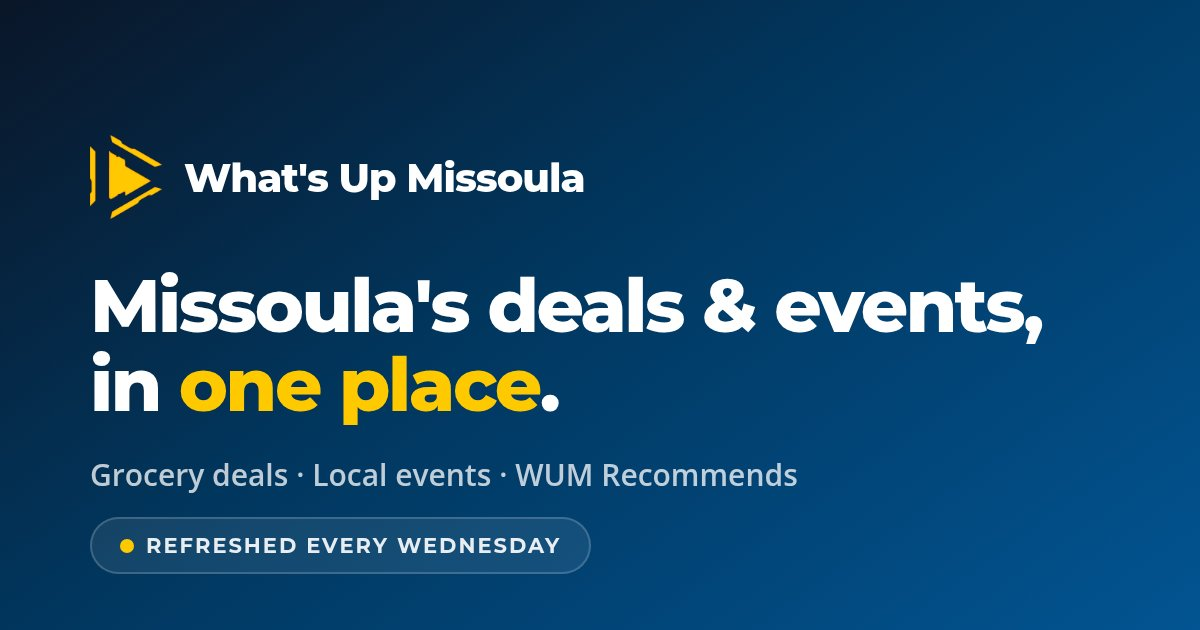
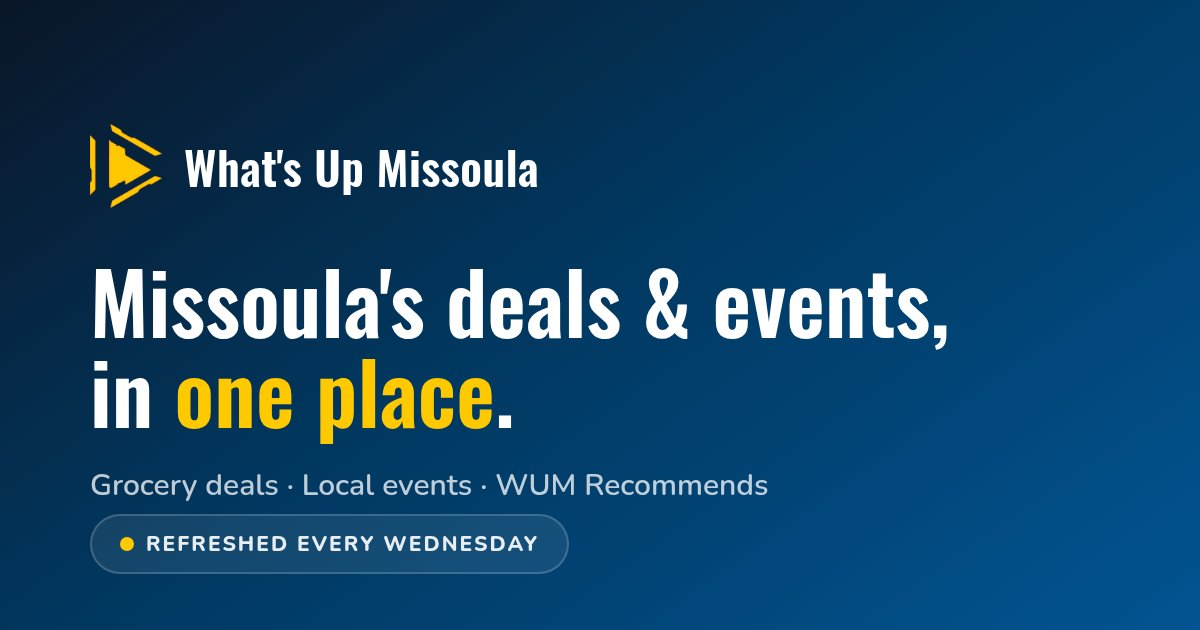
Rebrand to the current Fractional type system: Oswald + Nunito
Swap Montserrat/Open Sans for the brand guide's Oswald (headings, nav,
wordmark, stat prices — sentence case, 600 max) and Nunito (body, plus
the ALL-CAPS eyebrows/badges/tags at 800). Retune the type scale to the
guide, move the nav pills to the 6px button radius, and replace the
leftover #1c2e59 navy tints with the real --navy. Regenerate og-card.jpg.

Colors and the symbol-only mark already matched; the Fractional IT
wordmark logo stays out — WUM is made by, not a property of, FIT.

Changed region(s): [[0.0617, 0.4222, 0.8942, 0.7841], [0.0617, 0.181, 0.4933, 0.3619], [0.0925, 0.8143, 0.4933, 0.9048]]

diff --git a/site/static/css/brand.css b/site/static/css/brand.css
@@ -1,5 +1,8 @@
 /* What's Up Missoula — built on the Fractional design system.
-   Tokens lifted from the Fractional IT brand guide; only the name differs. */
+   Tokens lifted from the Fractional IT brand guide; only the name differs.
+   Type: Oswald for headings / nav / stat numbers (sentence case, never
+   uppercase — 600 reads like the old 800), Nunito for body, eyebrows and
+   small caps tags. */
 
 :root {
   --navy:       #025492;
@@ -13,6 +16,9 @@
   --gray-400:   #9ca3af;
   --gray-600:   #4b5563;
   --white:      #ffffff;
+
+  --head:       'Oswald', sans-serif;
+  --body:       'Nunito', sans-serif;
 
   --radius:     12px;
   --radius-lg:  20px;
@@ -29,14 +35,19 @@
 [hidden] { display: none !important; }
 
 body {
-  font-family: 'Open Sans', sans-serif;
+  font-family: var(--body);
+  -webkit-font-smoothing: antialiased;
   font-size: 17px;
   line-height: 1.7;
   color: var(--gray-600);
   background: var(--gray-100);
 }
 
-h1, h2, h3, .label, nav, .btn { font-family: 'Montserrat', sans-serif; }
+h1, h2, h3, h4, nav, .btn { font-family: var(--head); font-weight: 600; letter-spacing: 0; }
+h3, h4 { font-weight: 500; }
+/* Nunito 800 + tracking is the brand's ALL-CAPS voice — eyebrows, badges, tags.
+   Headings never get text-transform. */
+.label, .caps { font-family: var(--body); font-weight: 800; text-transform: uppercase; }
 
 .container { max-width: 1180px; margin: 0 auto; padding: 0 28px; }
 
@@ -53,33 +64,34 @@ h1, h2, h3, .label, nav, .btn { font-family: 'Montserrat', sans-serif; }
 .hero .topbar .brand { margin-bottom: 0; }
 .sitenav { display: flex; gap: 6px; flex-shrink: 0; }
 .sitenav a {
-  font-family: 'Montserrat', sans-serif; font-size: 13px; font-weight: 700;
-  letter-spacing: 0.5px; color: rgba(255,255,255,0.82); text-decoration: none;
-  padding: 8px 16px; border-radius: 999px; transition: all 0.2s ease;
+  font-family: var(--head); font-size: 15px; font-weight: 500;
+  letter-spacing: 0.6px; color: rgba(255,255,255,0.82); text-decoration: none;
+  padding: 7px 16px; border-radius: 6px; transition: all 0.2s ease;
 }
-.sitenav a:hover { color: var(--white); background: rgba(255,255,255,0.12); }
+.sitenav a:hover { color: var(--gold); background: rgba(255,255,255,0.08); }
 .sitenav a.active { color: var(--navy-deep); background: var(--gold); }
 .hero .brand { display: flex; align-items: center; gap: 14px; margin-bottom: 40px; }
 .hero .brand img { height: 40px; }
 .hero .brand span {
-  font-weight: 800; font-size: 18px; letter-spacing: -0.5px; color: var(--white);
+  font-family: var(--head); font-weight: 600; font-size: 22px;
+  letter-spacing: 0.3px; color: var(--white);
 }
 .label {
-  font-size: 11px; font-weight: 700; letter-spacing: 2.5px;
-  text-transform: uppercase; color: var(--gold); margin-bottom: 12px;
+  font-size: 11px; letter-spacing: 2.5px;
+  color: var(--gold); margin-bottom: 12px;
   display: inline-block;
 }
 .hero h1 {
-  font-size: clamp(32px, 5.2vw, 52px); font-weight: 800;
-  letter-spacing: -1.5px; line-height: 1.05; margin-bottom: 10px;
+  font-size: clamp(38px, 6vw, 60px); font-weight: 600;
+  letter-spacing: 0.2px; line-height: 1.06; margin-bottom: 10px;
 }
 .hero h1 em { color: var(--gold); font-style: normal; }
 .hero .sub { color: rgba(255,255,255,0.72); max-width: 640px; }
 .refresh-note {
   display: inline-flex; align-items: center; gap: 8px;
   margin-top: 16px;
-  font-family: 'Montserrat', sans-serif;
-  font-size: 12px; font-weight: 700; letter-spacing: 1.5px;
+  font-family: var(--body);
+  font-size: 12px; font-weight: 800; letter-spacing: 1.5px;
   text-transform: uppercase; color: rgba(255,255,255,0.85);
   background: rgba(255,255,255,0.08);
   border: 1px solid rgba(255,255,255,0.15);
@@ -108,7 +120,7 @@ h1, h2, h3, .label, nav, .btn { font-family: 'Montserrat', sans-serif; }
 .dealsearch-input {
   flex: 1; min-width: 0;
   border: 0; outline: 0; background: transparent;
-  font-family: 'Open Sans', sans-serif; font-size: 17px;
+  font-family: var(--body); font-size: 17px;
   color: var(--navy-deep); padding: 16px 14px;
 }
 .dealsearch-input::placeholder { color: var(--gray-400); }
@@ -123,8 +135,8 @@ h1, h2, h3, .label, nav, .btn { font-family: 'Montserrat', sans-serif; }
 .dealsearch-clear:hover { background: var(--gray-400); color: var(--white); }
 .dealsearch-status {
   margin-top: 14px;
-  font-family: 'Montserrat', sans-serif;
-  font-size: 13px; font-weight: 700; letter-spacing: 0.5px;
+  font-family: var(--body);
+  font-size: 13px; font-weight: 800; letter-spacing: 0.5px;
   color: var(--white);
 }
 
@@ -140,12 +152,12 @@ h1, h2, h3, .label, nav, .btn { font-family: 'Montserrat', sans-serif; }
   border-left: 6px solid var(--gold);
 }
 .best .label { color: var(--gold-dark); }
-.best h2 { font-size: clamp(26px, 3.8vw, 38px); color: var(--navy-deep); font-weight: 700; }
+.best h2 { font-size: clamp(28px, 3.8vw, 42px); color: var(--navy-deep); line-height: 1.14; }
 .best p { margin-top: 8px; color: var(--gray-600); }
 
 /* --- Sections --- */
 .section { padding: 64px 0; }
-.section h2 { font-size: clamp(24px, 3.4vw, 34px); color: var(--navy-deep); margin-bottom: 6px; }
+.section h2 { font-size: clamp(28px, 3.8vw, 42px); color: var(--navy-deep); line-height: 1.14; margin-bottom: 6px; }
 .section .label { color: var(--gold-dark); }
 
 /* --- Top steals strip --- */
@@ -157,13 +169,13 @@ h1, h2, h3, .label, nav, .btn { font-family: 'Montserrat', sans-serif; }
   box-shadow: var(--shadow-sm); transition: all 0.3s ease;
 }
 .steal:hover { transform: translateY(-2px); box-shadow: var(--shadow-md); }
-.steal .store { font-size: 11px; font-weight: 700; letter-spacing: 1.5px; text-transform: uppercase; color: var(--navy); }
+.steal .store { font-size: 11px; font-weight: 800; letter-spacing: 1.5px; text-transform: uppercase; color: var(--navy); }
 .steal .item { color: var(--navy-deep); font-weight: 600; margin: 4px 0; }
-.steal .price { font-family: 'Montserrat'; font-weight: 800; font-size: 24px; color: var(--gold-dark); }
+.steal .price { font-family: var(--head); font-weight: 600; font-size: 30px; line-height: 1.1; color: var(--gold-dark); }
 .steal .unit { font-size: 13px; color: var(--gray-400); }
-.steal .steal-dates { font-size: 12px; font-weight: 600; color: var(--gold-dark); margin-top: 6px; }
+.steal .steal-dates { font-size: 12px; font-weight: 700; color: var(--gold-dark); margin-top: 6px; }
 .steal-pick { border-top: 3px solid var(--gold); }
-.steal-rec { border-top: 3px solid rgba(28,46,89,0.28); }
+.steal-rec { border-top: 3px solid rgba(2,84,146,0.28); }
 .order-note { font-size: 14px; color: var(--gray-600); margin-top: 6px; max-width: 720px; }
 .disclaimer { font-size: 13px; color: var(--gray-400); margin-top: 8px; max-width: 720px; }
 .disclaimer strong { color: var(--gold-dark); font-weight: 700; }
@@ -178,8 +190,8 @@ h1, h2, h3, .label, nav, .btn { font-family: 'Montserrat', sans-serif; }
 }
 .steal .wum-rec {
   display: inline-block; font-size: 10px; font-weight: 800; letter-spacing: 1px;
-  text-transform: uppercase; color: var(--navy-deep); background: rgba(28,46,89,0.08);
-  border: 1px solid rgba(28,46,89,0.18);
+  text-transform: uppercase; color: var(--navy-deep); background: rgba(2,84,146,0.08);
+  border: 1px solid rgba(2,84,146,0.18);
   padding: 2px 8px; border-radius: 100px; margin-bottom: 8px;
 }
 
@@ -193,13 +205,13 @@ h1, h2, h3, .label, nav, .btn { font-family: 'Montserrat', sans-serif; }
 /* Tag filter chips in the hero — show the week's tags, click to filter. */
 .tagbar { display: flex; flex-wrap: wrap; align-items: center; gap: 8px; margin-top: 12px; }
 .tagbar-label {
-  font-family: 'Montserrat', sans-serif; font-size: 11px; font-weight: 700;
+  font-family: var(--body); font-size: 11px; font-weight: 800;
   letter-spacing: 2px; text-transform: uppercase; color: rgba(255,255,255,0.55);
   margin-right: 2px;
 }
 .tagchip {
-  font-family: 'Montserrat', sans-serif; font-size: 12px; font-weight: 700;
-  letter-spacing: 0.3px; color: var(--white);
+  font-family: var(--body); font-size: 12px; font-weight: 800;
+  letter-spacing: 0.6px; color: var(--white);
   background: rgba(255,255,255,0.10); border: 1px solid rgba(255,255,255,0.22);
   padding: 6px 14px; border-radius: 999px; cursor: pointer; transition: all 0.2s ease;
 }
@@ -230,18 +242,18 @@ h1, h2, h3, .label, nav, .btn { font-family: 'Montserrat', sans-serif; }
 .biz:hover { transform: translateY(-2px); box-shadow: var(--shadow-md); }
 .biz-cat {
   display: inline-block;
-  font-family: 'Montserrat', sans-serif; font-size: 11px; font-weight: 700;
+  font-family: var(--body); font-size: 11px; font-weight: 800;
   letter-spacing: 1.5px; text-transform: uppercase;
   color: var(--navy); background: rgba(2,84,146,0.08);
   padding: 4px 12px; border-radius: 999px; margin-bottom: 12px;
 }
-.biz-name { font-size: 24px; font-weight: 700; color: var(--navy-deep); line-height: 1.2; margin-bottom: 8px; }
+.biz-name { font-family: var(--head); font-size: 24px; font-weight: 500; color: var(--navy-deep); line-height: 1.25; margin-bottom: 8px; }
 .biz-name a { color: inherit; text-decoration: none; }
 .biz-name a:hover { color: var(--navy); }
 .biz-what { font-size: 15px; }
 .biz-why { border-left: 3px solid var(--gold); padding-left: 14px; margin-top: 14px; }
 .biz-why-label {
-  font-family: 'Montserrat', sans-serif; font-size: 11px; font-weight: 700;
+  font-family: var(--body); font-size: 11px; font-weight: 800;
   letter-spacing: 1.5px; text-transform: uppercase; color: var(--gold-dark);
 }
 .biz-why p { font-size: 15px; margin-top: 4px; }
@@ -270,19 +282,19 @@ h1, h2, h3, .label, nav, .btn { font-family: 'Montserrat', sans-serif; }
 .event-body { padding: 20px 24px 24px; }
 .event-badges { display: flex; flex-wrap: wrap; gap: 6px; margin-bottom: 12px; }
 .ev-tag {
-  font-family: 'Montserrat', sans-serif; font-size: 10px; font-weight: 800;
+  font-family: var(--body); font-size: 10px; font-weight: 800;
   letter-spacing: 1px; text-transform: uppercase; padding: 3px 10px; border-radius: 100px;
 }
 .ev-tag.kid { background: #1f8a4c; color: var(--white); }        /* family — green pops against navy/gold */
 .ev-tag.special { background: var(--navy); color: var(--white); }
 .ev-tag.plain { background: var(--gray-100); color: var(--gray-600); }
-.event-title { font-size: 21px; font-weight: 700; color: var(--navy-deep); line-height: 1.2; margin-bottom: 4px; }
+.event-title { font-family: var(--head); font-size: 22px; font-weight: 500; color: var(--navy-deep); line-height: 1.25; margin-bottom: 4px; }
 .event-title a { color: inherit; text-decoration: none; }
 .event-title a:hover { color: var(--navy); }
 .event-meta { font-size: 13px; color: var(--gray-400); }
 .event-series {
-  font-family: 'Montserrat', sans-serif; font-size: 11px; font-weight: 700;
-  letter-spacing: 0.5px; text-transform: uppercase; color: var(--gold-dark); margin-top: 6px;
+  font-family: var(--body); font-size: 11px; font-weight: 800;
+  letter-spacing: 1px; text-transform: uppercase; color: var(--gold-dark); margin-top: 6px;
 }
 .event-times { margin-top: 14px; font-size: 14px; color: var(--gray-600); line-height: 1.7; }
 .event-times .day { font-weight: 700; color: var(--navy-deep); }
@@ -292,14 +304,14 @@ h1, h2, h3, .label, nav, .btn { font-family: 'Montserrat', sans-serif; }
    both pages group the same way: one card per venue / per store. --- */
 .venue-block { margin-top: 32px; }
 .venue-block h3 {
-  font-size: 24px; font-weight: 700; color: var(--navy-deep);
+  font-size: 24px; color: var(--navy-deep);
   display: flex; align-items: center; gap: 10px;
   padding-bottom: 10px; border-bottom: 2px solid var(--gray-100);
 }
 .venue-count {
-  font-family: 'Montserrat'; font-size: 11px; font-weight: 700; letter-spacing: 0.5px;
-  background: rgba(28,46,89,0.08); color: var(--navy-deep);
-  border: 1px solid rgba(28,46,89,0.18);
+  font-family: var(--body); font-size: 11px; font-weight: 800; letter-spacing: 0.5px;
+  background: rgba(2,84,146,0.08); color: var(--navy-deep);
+  border: 1px solid rgba(2,84,146,0.18);
   border-radius: 100px; padding: 2px 9px;
 }
 .venue-note { font-size: 13px; color: var(--gray-400); font-style: italic; margin: 10px 0 0; }
@@ -307,16 +319,16 @@ h1, h2, h3, .label, nav, .btn { font-family: 'Montserrat', sans-serif; }
 
 /* --- Store blocks --- */
 .store-block { background: var(--white); border-radius: var(--radius-lg); box-shadow: var(--shadow-sm); padding: 28px 32px; margin-bottom: 22px; }
-.store-block h3 { font-size: 24px; font-weight: 700; color: var(--navy-deep); }
+.store-block h3 { font-size: 24px; color: var(--navy-deep); }
 .store-block .dates { font-size: 13px; color: var(--gray-400); margin-bottom: 16px; }
 .store-block .store-note { font-size: 13px; color: var(--gray-400); margin: -8px 0 16px; font-style: italic; }
-.store-kind { display: inline-block; font-size: 11px; font-weight: 700; letter-spacing: 0.5px;
+.store-kind { display: inline-block; font-family: var(--body); font-size: 11px; font-weight: 800; letter-spacing: 1px;
   text-transform: uppercase; border-radius: 100px; padding: 3px 10px; margin-left: 10px; vertical-align: 4px; }
-.store-kind.bulk { background: rgba(28,46,89,0.08); color: var(--navy-deep); border: 1px solid rgba(28,46,89,0.18); }
+.store-kind.bulk { background: rgba(2,84,146,0.08); color: var(--navy-deep); border: 1px solid rgba(2,84,146,0.18); }
 
 table.deals { width: 100%; border-collapse: collapse; }
 table.deals th {
-  text-align: left; font-family: 'Montserrat'; font-size: 10px; font-weight: 700;
+  text-align: left; font-family: var(--body); font-size: 10px; font-weight: 800;
   letter-spacing: 1.5px; text-transform: uppercase; color: var(--gray-400);
   padding: 8px 10px; border-bottom: 2px solid var(--gray-100);
 }
@@ -332,7 +344,7 @@ table.deals tr.watch td { background: rgba(255,201,0,0.06); }
 .watch-badge { display: inline-block; font-size: 11px; font-weight: 700;
   border-radius: 100px; padding: 1px 8px; margin-left: 6px; vertical-align: 2px; }
 .watch-mine { background: var(--gold-dark); color: var(--white); }
-.watch-wum { background: rgba(28,46,89,0.08); color: var(--navy-deep); border: 1px solid rgba(28,46,89,0.18); }
+.watch-wum { background: rgba(2,84,146,0.08); color: var(--navy-deep); border: 1px solid rgba(2,84,146,0.18); }
 
 /* --- Footer --- */
 footer { background: var(--navy-deep); color: rgba(255,255,255,0.72); padding: 40px 0; font-size: 13px; line-height: 1.6; }
@@ -345,8 +357,8 @@ footer p:last-child { margin-bottom: 0; }
    copy below without adding a whole second footer band. */
 .footerlinks { margin-bottom: 20px; padding-bottom: 20px; border-bottom: 1px solid rgba(255,255,255,0.12); }
 .footerlinks h2 {
-  font-family: 'Montserrat', sans-serif; font-size: 12px; font-weight: 700;
-  letter-spacing: 1px; text-transform: uppercase; color: rgba(255,255,255,0.55);
+  font-family: var(--body); font-size: 11px; font-weight: 800;
+  letter-spacing: 2px; text-transform: uppercase; color: rgba(255,255,255,0.55);
   margin-bottom: 12px;
 }
 .footerlinks ul { list-style: none; display: flex; flex-wrap: wrap; gap: 8px; }
@@ -369,8 +381,8 @@ footer p:last-child { margin-bottom: 0; }
   .topbar { flex-wrap: wrap; margin-bottom: 24px; }
   .hero .brand { gap: 10px; }
   .hero .brand img { height: 32px; }
-  .hero .brand span { font-size: 16px; white-space: nowrap; }
-  .sitenav a { padding: 7px 12px; font-size: 12px; }
+  .hero .brand span { font-size: 19px; white-space: nowrap; }
+  .sitenav a { padding: 6px 12px; font-size: 14px; }
 }
 
 @media (max-width: 480px) {

diff --git a/docs/og-card.html b/docs/og-card.html
@@ -1,28 +1,29 @@
 <!DOCTYPE html>
 <html><head><meta charset="utf-8">
 <link rel="preconnect" href="https://fonts.googleapis.com">
-<link href="https://fonts.googleapis.com/css2?family=Montserrat:wght@700;800&family=Open+Sans:wght@600&display=swap" rel="stylesheet">
+<link href="https://fonts.googleapis.com/css2?family=Oswald:wght@500;600&family=Nunito:wght@600;800&display=swap" rel="stylesheet">
 <style>
   * { margin: 0; padding: 0; box-sizing: border-box; }
   body {
     width: 1200px; height: 630px; overflow: hidden;
     background: linear-gradient(145deg, #0a1628 0%, #01375f 45%, #025492 100%);
     display: flex; flex-direction: column; justify-content: center;
-    padding: 0 90px; color: #fff; font-family: 'Montserrat', sans-serif;
+    padding: 0 90px; color: #fff; font-family: 'Oswald', sans-serif;
   }
   .brand { display: flex; align-items: center; gap: 22px; margin-bottom: 48px; }
   .brand img { height: 84px; }
-  .brand span { font-weight: 800; font-size: 40px; letter-spacing: -1px; }
-  h1 { font-size: 74px; font-weight: 800; letter-spacing: -2.5px; line-height: 1.06; }
+  .brand span { font-weight: 600; font-size: 46px; letter-spacing: 0.5px; }
+  h1 { font-size: 84px; font-weight: 600; letter-spacing: 0.2px; line-height: 1.06; }
   h1 em { color: #ffc900; font-style: normal; }
   .sub {
-    margin-top: 30px; font-family: 'Open Sans', sans-serif; font-weight: 600;
+    margin-top: 30px; font-family: 'Nunito', sans-serif; font-weight: 600;
     font-size: 30px; color: rgba(255,255,255,0.75);
   }
   .pill {
     position: absolute; bottom: 56px; left: 90px;
     display: inline-flex; align-items: center; gap: 12px;
-    font-size: 21px; font-weight: 700; letter-spacing: 2px; text-transform: uppercase;
+    font-family: 'Nunito', sans-serif;
+    font-size: 21px; font-weight: 800; letter-spacing: 2px; text-transform: uppercase;
     color: rgba(255,255,255,0.9); background: rgba(255,255,255,0.08);
     border: 2px solid rgba(255,255,255,0.18); padding: 14px 28px; border-radius: 999px;
   }
